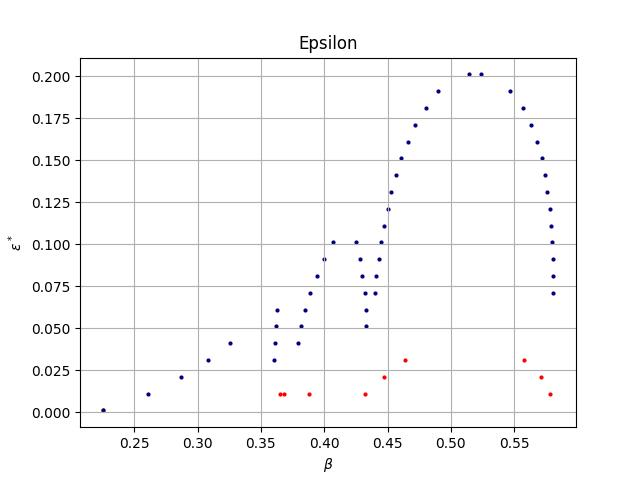
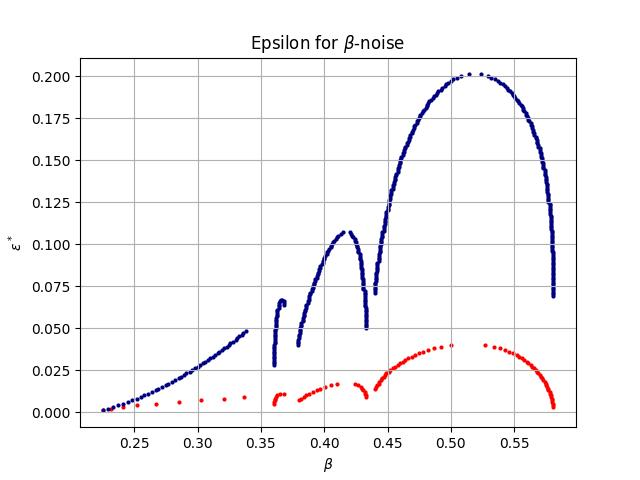
Redraw

diff --git a/latex/stochastic.tex b/latex/stochastic.tex
@@ -224,9 +224,9 @@
 
     \subsection{Критическая интенсивность}
 
-        Критическая интенсивность --- значение интенсивности, при которой траектории могут выходить за границы аттрактора и сваливаться в ноль.
+        Бдуем называть критической интенсивностью такое значение интенсивности, при котором траектории могут выходить за границы аттрактора и сваливаться в ноль.
 
-        Например, на рисунке \ref{critical_intensity_beta_noise} изображен график Критической интенсивности для \(\beta\)-шума.
+        Например, на рисунке \ref{critical_intensity_beta_noise} изображен график критической интенсивности для \(\beta\)-шума.
 
         \comment{Просчитай эти графики для более мелкого шага, чтоб точки были ближе друг к другу}
 

diff --git a/grpah/ju_main.py b/grpah/ju_main.py
@@ -1,0 +1,22 @@
+import numpy as np
+from julia import Main
+
+from algorithms.convert_dict_to_lists import convert_dict_to_lists
+from functions_pkg import base_functions 
+from visual.plotter import Plotter
+
+
+if __name__ == "__main__":
+    Main.include("fast_algorithm/bifurcation.jl")
+
+    param = list(np.arange(0.22, 0.582355932, 0.001))
+
+    source = Main.FastAlgorithm.bifurcation(range(1, 100 + 1), 0.2, param, lambda b, x: base_functions.f(1, b, x))
+
+    source = convert_dict_to_lists(source)
+
+    (Plotter()
+        .setup(r'$\beta$', 'x', 'log', 'major', 'Bifurcation')
+        .scatter(source[0], source[1], '.', 'steelblue', 'aa')
+        .legend()
+        .show_last())

diff --git a/grpah/runner.py b/grpah/runner.py
@@ -294,8 +294,8 @@ def run_bifurcation():
         .setup(r'$\beta$', 'x', 'log', 'major', 'Bifurcation')
         .scatter(source[0], source[1], '.', 'steelblue', 'aa')
         .legend()
-     .show())
-        # .show_last())
+     # .show())
+        .show_last())
 
 
 def run_compare_chaos_bifurcation():

diff --git a/grpah/main.py b/grpah/main.py
@@ -80,6 +80,6 @@ if __name__ == "__main__":
     # erunda_alpha_noise()
     # ernuda_additive_noise()
 
-    critical_intensity_beta_noise()
-    # critical_intensity_alpha_noise()
+    # critical_intensity_beta_noise()
+    critical_intensity_alpha_noise()
     # critical_intensity_additive_noise()
